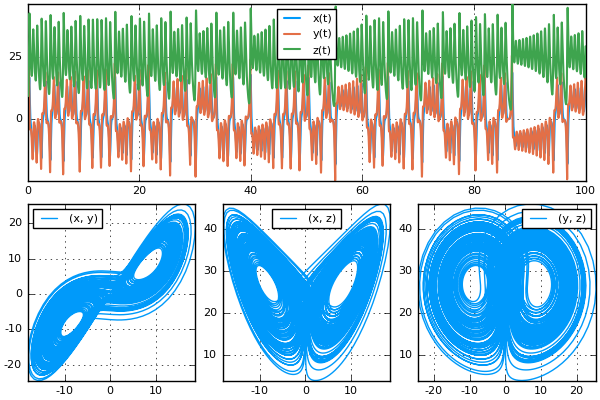
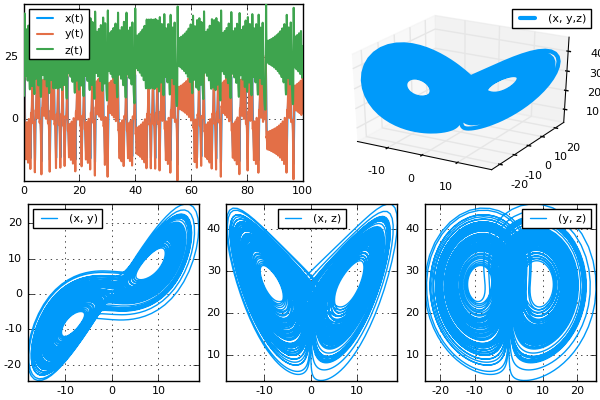
update vars for n-d

diff --git a/docs/src/basics/plot.md b/docs/src/basics/plot.md
@@ -37,8 +37,8 @@ where this would mean plot variable 0 vs 1, 1 vs 3, and 4 vs 5 all on the same g
 for everything, the following conveniences are provided:
 
 * Everywhere in a tuple position where we only find an integer, this
-variable is plotted as a function of time.  For example, the list above
-is equivalent to:
+  variable is plotted as a function of time.  For example, the list above
+  is equivalent to:
 
 ```julia
 vars = [1, (1,3), (4,5)]
@@ -54,10 +54,10 @@ is the most concise way to plot the variables 1, 3, and 4 as a function
 of time.
 
 * It is possible to omit the list if only one plot is wanted: `(2,3)`
-and `4` are respectively equivalent to `[(2,3)]` and `[(0,4)]`.
+  and `4` are respectively equivalent to `[(2,3)]` and `[(0,4)]`.
 
 * A tuple containing one or several lists will be expanded by
-associating corresponding elements of the lists with each other:
+  associating corresponding elements of the lists with each other:
 
 ```julia
 vars = ([1,2,3], [4,5,6])
@@ -82,8 +82,11 @@ vars = [(1,2), (1,3), (1,4)]
 ```
 
 * Instead of using integers, one can use the symbols from a `ParameterizedFunction`.
-For example, `vars=(:x,:y)` will replace the symbols with the integer values for
-components `:x` and `:y` .
+  For example, `vars=(:x,:y)` will replace the symbols with the integer values for
+  components `:x` and `:y` .
+
+* n-dimensional groupings are allowed. For example, `(1,2,3,4,5)` would be a
+  5-dimensional plot between the associated variables.
 
 ### Example
 
@@ -104,7 +107,8 @@ xyzt = plot(sol, plotdensity=10000,lw=1.5)
 xy = plot(sol, plotdensity=10000, vars=(:x,:y))
 xz = plot(sol, plotdensity=10000, vars=(:x,:z))
 yz = plot(sol, plotdensity=10000, vars=(:y,:z))
-plot(xyzt, plot(xy, xz, yz, layout=(1,3),w=1), layout=(2,1))
+xyz = plot(sol, plotdensity=10000, vars=(:x,:y,:z))
+plot(plot(xyzt,xyz),plot(xy, xz, yz, layout=(1,3),w=1), layout=(2,1))
 ```
 
 ![lorenz_plot](../assets/vars_plotting_example.png)
